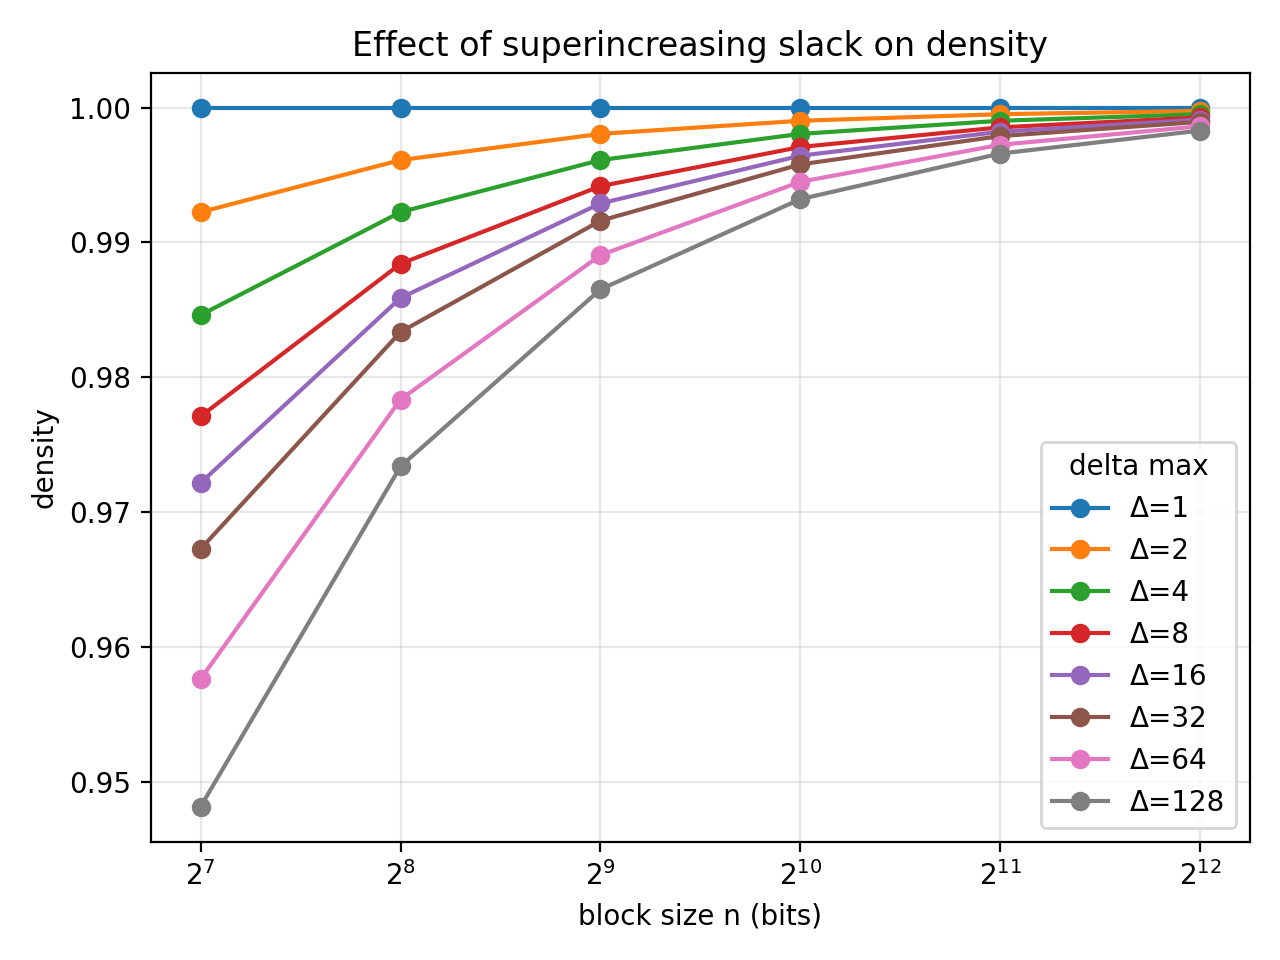
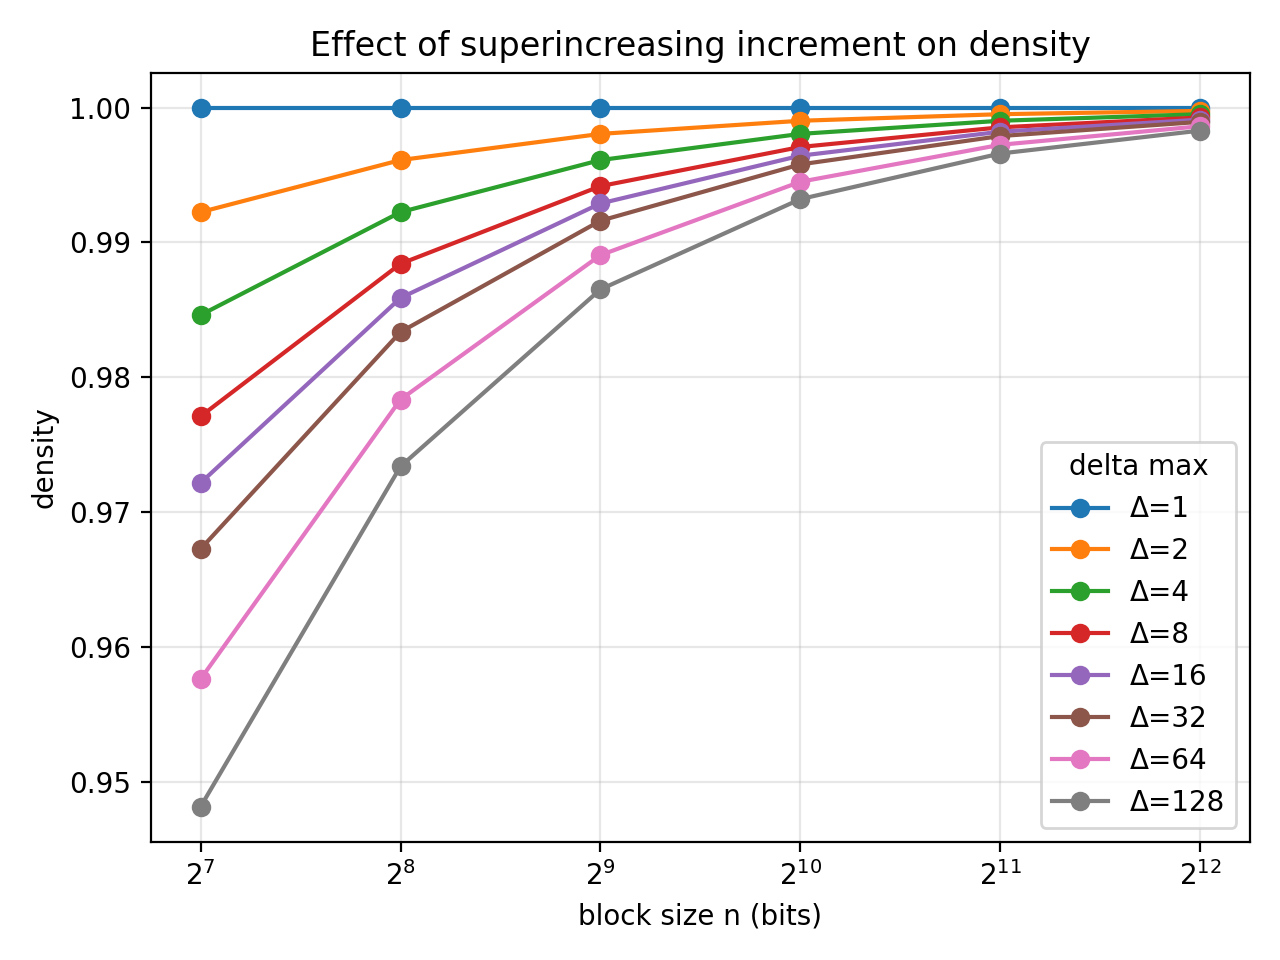
experiments, cleanups, updating multiplier

Changed region(s): [[0.2188, 0.0312, 0.8438, 0.0625]]

diff --git a/code/src/scheme_mh_common.c b/code/src/scheme_mh_common.c
@@ -1,4 +1,5 @@
 #include "scheme_mh_common.h"
+#include "error.h"
 #include <stdlib.h>
 
 KnapStatus mh_key_alloc(MhKey *key, u64 n) {
@@ -60,6 +61,7 @@ KnapStatus mh_key_build_private(MhKey *key, PrngState *rng) {
     if (!key || !rng || key->n == 0) {
         return KNAP_ERR_INVALID;
     }
+    KnapStatus status;
     mpz_t delta;
     mpz_t sum;
     mpz_t margin;
@@ -81,16 +83,12 @@ KnapStatus mh_key_build_private(MhKey *key, PrngState *rng) {
     mpz_add(key->mod, sum, margin);
 
     // Choose multiplier coprime to m
-    for (;;) {
-        mpz_set_ui(key->mult, prng_rand_u64(rng));
-        mpz_mod(key->mult, key->mult, key->mod);
-        if (mpz_cmp_ui(key->mult, 2u) < 0) {
-            continue;
-        }
-        if (mpz_invert(key->mult_inv, key->mult, key->mod) != 0) {
-            break;
-        }
+    status = mh_choose_multiplier(key->mult, key->mult_inv, key->mod, rng);
+    if (status != KNAP_OK) {
+        mpz_clears(delta, sum, margin, NULL);
+        return status;
     }
+
     mpz_clears(delta, sum, margin, NULL);
 
     return KNAP_OK;
@@ -140,4 +138,65 @@ KnapStatus mh_decrypt_impl(const MhKey *key, const mpz_t ciphertext,
     mpz_clear(s);
 
     return KNAP_OK;
+}
+
+static void mh_random_bits(mpz_t out, u64 bits, PrngState *rng) {
+    u64 full_words = bits / 32u;
+    u64 rem_bits = bits % 32u;
+
+    mpz_set_ui(out, 0);
+
+    for (u64 i = 0; i < full_words; i++) {
+        mpz_mul_2exp(out, out, 32u);
+        mpz_add_ui(out, out, prng_rand(rng));
+    }
+
+    if (rem_bits != 0) {
+        u32 value = prng_rand(rng);
+        value >>= (32u - rem_bits);
+
+        mpz_mul_2exp(out, out, rem_bits);
+        mpz_add_ui(out, out, value);
+    }
+}
+
+static KnapStatus mh_random_below(mpz_t out, const mpz_t bound,
+                                  PrngState *rng) {
+    u64 bits;
+
+    if (!rng || mpz_cmp_ui(bound, 1u) <= 0) {
+        return KNAP_ERR_INVALID;
+    }
+
+    bits = (u64)mpz_sizeinbase(bound, 2);
+
+    do {
+        mh_random_bits(out, bits, rng);
+    } while (mpz_cmp(out, bound) >= 0);
+
+    return KNAP_OK;
+}
+
+KnapStatus mh_choose_multiplier(mpz_t mult, mpz_t mult_inv, const mpz_t mod,
+                                PrngState *rng) {
+    KnapStatus status;
+
+    if (!rng || mpz_cmp_ui(mod, 3u) <= 0) {
+        return KNAP_ERR_INVALID;
+    }
+
+    for (;;) {
+        status = mh_random_below(mult, mod, rng);
+        if (status != KNAP_OK) {
+            return status;
+        }
+
+        if (mpz_cmp_ui(mult, 2u) < 0) {
+            continue;
+        }
+
+        if (mpz_invert(mult_inv, mult, mod) != 0) {
+            return KNAP_OK;
+        }
+    }
 }

diff --git a/code/include/scheme_mh_common.h b/code/include/scheme_mh_common.h
@@ -6,16 +6,21 @@
 #include "rand.h"
 #include <gmp.h>
 
-#define MH_DEFAULT_DELTA_MAX 16u
+// Default upper bound for additive superincreasing increment delta.
+#define MH_DEFAULT_DELTA_MAX 64u
+
+// Default factor for modulus margin bound: margin <= factor * n.
 #define MH_DEFAULT_MARGIN_FACTOR 64u
 
+// Classic Merkle-Hellman 
+// key pair/trapdoor.
 typedef struct {
-    u64 n;               // key length
-    mpz_t *priv_weights; // private key sequence (weight)
-    mpz_t *pub_weights;  // public key sequence (basis)
-    mpz_t mod;           // modulus (m > sum(weights))
-    mpz_t mult;          // multiplier (no commond factor with m)
-    mpz_t mult_inv;      // inverse
+    u64 n;
+    mpz_t *priv_weights;
+    mpz_t *pub_weights;
+    mpz_t mod;
+    mpz_t mult;
+    mpz_t mult_inv;
 } MhKey;
 
 KnapStatus mh_key_alloc(MhKey *key, u64 n);
@@ -27,3 +32,6 @@ void mh_key_build_public(MhKey *key, const u64 *perm);
 void mh_encrypt_impl(const MhKey *key, BitView message, mpz_t ciphertext);
 KnapStatus mh_decrypt_impl(const MhKey *key, const mpz_t ciphertext,
                            BitBuf *message);
+
+KnapStatus mh_choose_multiplier(mpz_t mult, mpz_t mult_inv, const mpz_t mod,
+                                PrngState *rng);

diff --git a/code/src/scheme_mh_iterated.c b/code/src/scheme_mh_iterated.c
@@ -85,6 +85,7 @@ static KnapStatus mh_iterated_layer_build(MhIteratedLayer *layer,
                                           PrngState *rng) {
     mpz_t sum;
     mpz_t margin;
+    KnapStatus status;
 
     if (!layer || !weights || n == 0 || !rng) {
         return KNAP_ERR_INVALID;
@@ -96,23 +97,19 @@ static KnapStatus mh_iterated_layer_build(MhIteratedLayer *layer,
         mpz_add(sum, sum, weights[i]);
     }
 
-    u64 margin_u64 =
-        1 + (prng_rand_u64(rng) % (MH_DEFAULT_MARGIN_FACTOR * n));
+    u64 margin_u64 = 1 + (prng_rand_u64(rng) % (MH_DEFAULT_MARGIN_FACTOR * n));
     mpz_set_ui(margin, margin_u64);
     mpz_add(layer->mod, sum, margin);
 
-    for (;;) {
-        mpz_set_ui(layer->mult, prng_rand_u64(rng));
-        mpz_mod(layer->mult, layer->mult, layer->mod);
-        if (mpz_cmp_ui(layer->mult, 2u) < 0) {
-            continue;
-        }
-        if (mpz_invert(layer->mult_inv, layer->mult, layer->mod) != 0) {
-            break;
-        }
+    status =
+        mh_choose_multiplier(layer->mult, layer->mult_inv, layer->mod, rng);
+    if (status != KNAP_OK) {
+        mpz_clears(sum, margin, NULL);
+        
+        return status;
     }
-
     mpz_clears(sum, margin, NULL);
+
     return KNAP_OK;
 }
 

diff --git a/code/experiments/plot_results.py b/code/experiments/plot_results.py
@@ -205,7 +205,7 @@ def plot_delta_sweep_density(df):
         group = avg[avg["delta_max"] == delta_max].sort_values("n")
         plt.plot(group["n"], group["density"], marker="o", label=f"Δ={delta_max}")
 
-    plt.title("Effect of superincreasing slack on density")
+    plt.title("Effect of superincreasing increment on density")
     plt.xlabel("block size n (bits)")
     plt.ylabel("density")
     plt.xscale("log", base=2)
@@ -227,7 +227,7 @@ def plot_delta_sweep_sum_bits(df):
         group = avg[avg["delta_max"] == delta_max].sort_values("n")
         plt.plot(group["n"], group["sum_bits"], marker="o", label=f"Δ={delta_max}")
 
-    plt.title("Effect of superincreasing slack on private sum size")
+    plt.title("Effect of superincreasing increment on private sum size")
     plt.xlabel("block size n (bits)")
     plt.ylabel("bit length of sum(W)")
     plt.xscale("log", base=2)

diff --git a/code/src/bench.c b/code/src/bench.c
@@ -218,7 +218,7 @@ KnapStatus bench_run(CliFlags *flags) {
            "decrypt_ms,total_ms,delta_max,margin_bound,margin,sum_bits,"
            "density\n");
 
-    printf("%s,%llu,%llu,%llu,%lu,%lu,%.6f,%.6f,%.6f,%.6f,%llu,%llu,%llu,"
+    printf("%s,%llu,%llu,%llu,%llu,%llu,%.6f,%.6f,%.6f,%.6f,%llu,%llu,%llu,"
            "%llu,%.6f\n",
            scheme->info.id, (unsigned long long)flags->bits_message.length,
            (unsigned long long)reps, (unsigned long long)warmup_reps, seed[0],

diff --git a/code/src/app.c b/code/src/app.c
@@ -215,6 +215,7 @@ static KnapStatus demo_run(CliFlags *flags) {
     return status;
 }
 
+// test comment
 KnapStatus app_run(int argc, char **argv) {
     CliFlags flags = {0};
     KnapStatus status = parse_args(argc, argv, &flags);
